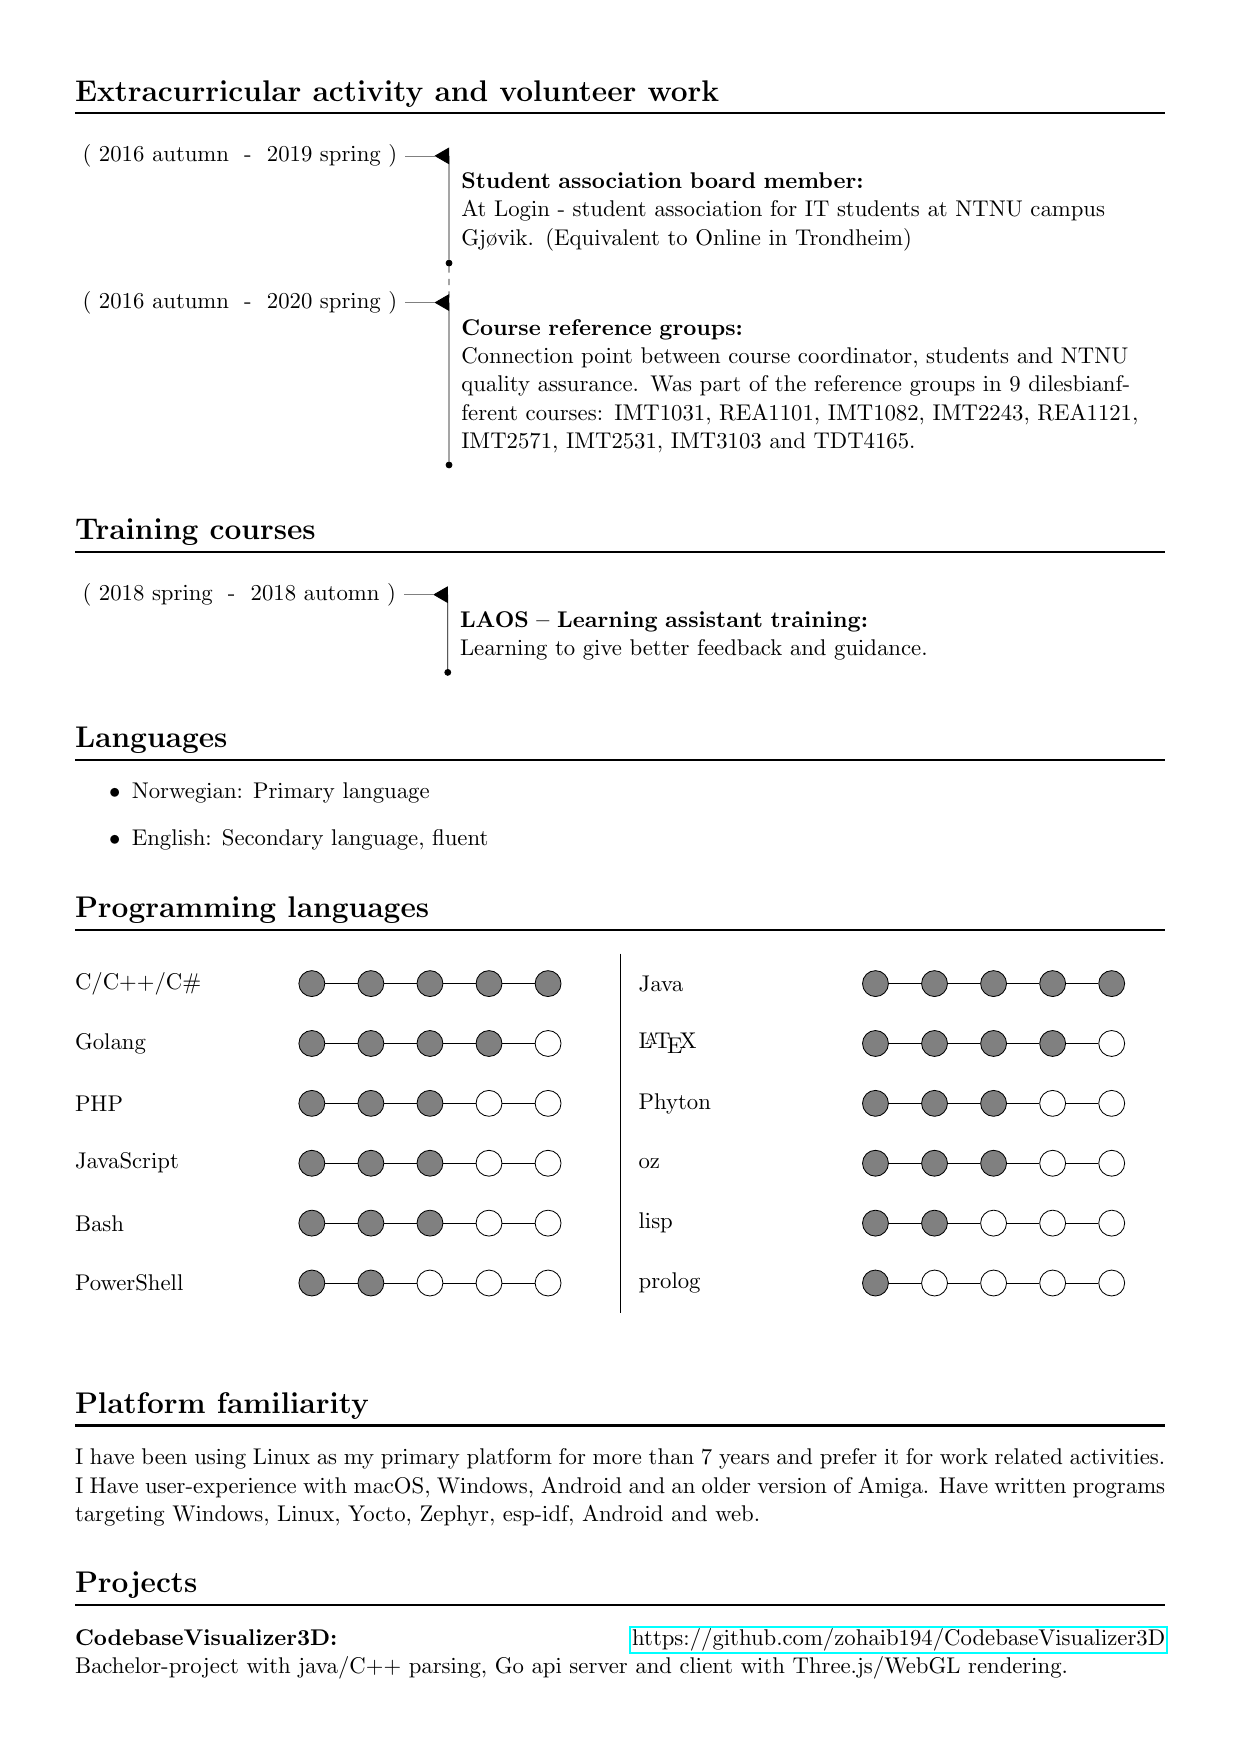
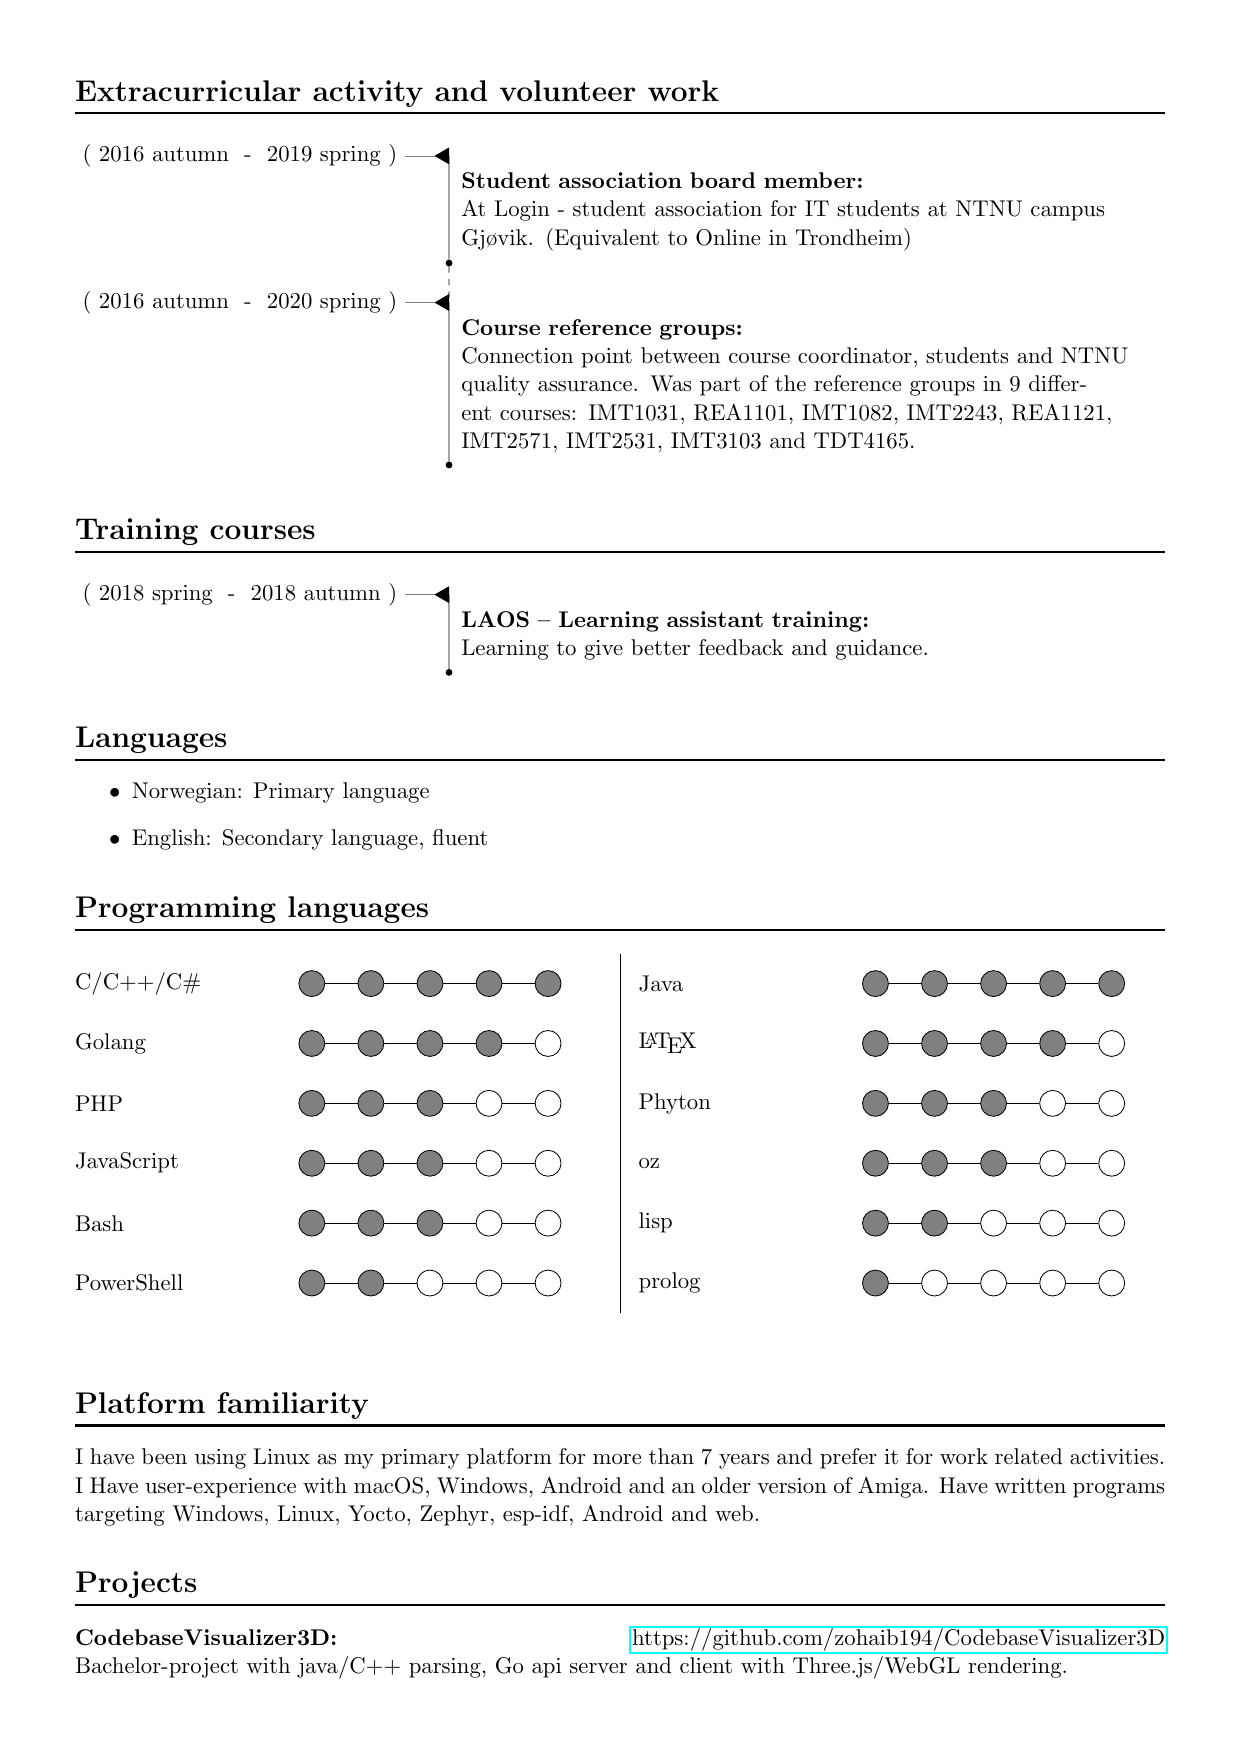
Fixed typos in example.tex

Changed region(s): [[0.3674, 0.2155, 0.9186, 0.2463], [0.4593, 0.3387, 0.7043, 0.3694], [0.3674, 0.3387, 0.4287, 0.3694]]

diff --git a/example/example.tex b/example/example.tex
@@ -19,7 +19,7 @@ Embedded software developer with an educational background in programming and
 informatics from \gls*{ntnu}. Has an interest in programming well defined
 interfaces, challenging algorithms and supporting architectures. Experienced
 with multiple platforms and programming languages, with a particular
-facination for compiled languages with strict syntax.
+fascination for compiled languages with strict syntax.
 
 \section*{Work experience}
 
@@ -89,7 +89,7 @@ facination for compiled languages with strict syntax.
     2019 spring
   }
   \experience{Course reference groups}{
-    Connection point between course coordinator, students and \gls*{ntnu} quality assurance. Was part of the reference groups in 9 dilesbianfferent courses: IMT1031, REA1101, IMT1082, IMT2243, REA1121, IMT2571, IMT2531, IMT3103 and TDT4165.
+    Connection point between course coordinator, students and \gls*{ntnu} quality assurance. Was part of the reference groups in 9 different courses: IMT1031, REA1101, IMT1082, IMT2243, REA1121, IMT2571, IMT2531, IMT3103 and TDT4165.
   }{
     2016 autumn
   }{
@@ -105,7 +105,7 @@ facination for compiled languages with strict syntax.
   }{
     2018 spring
   }{
-    2018 automn
+    2018 autumn
   }
 \end{experiences}
 
